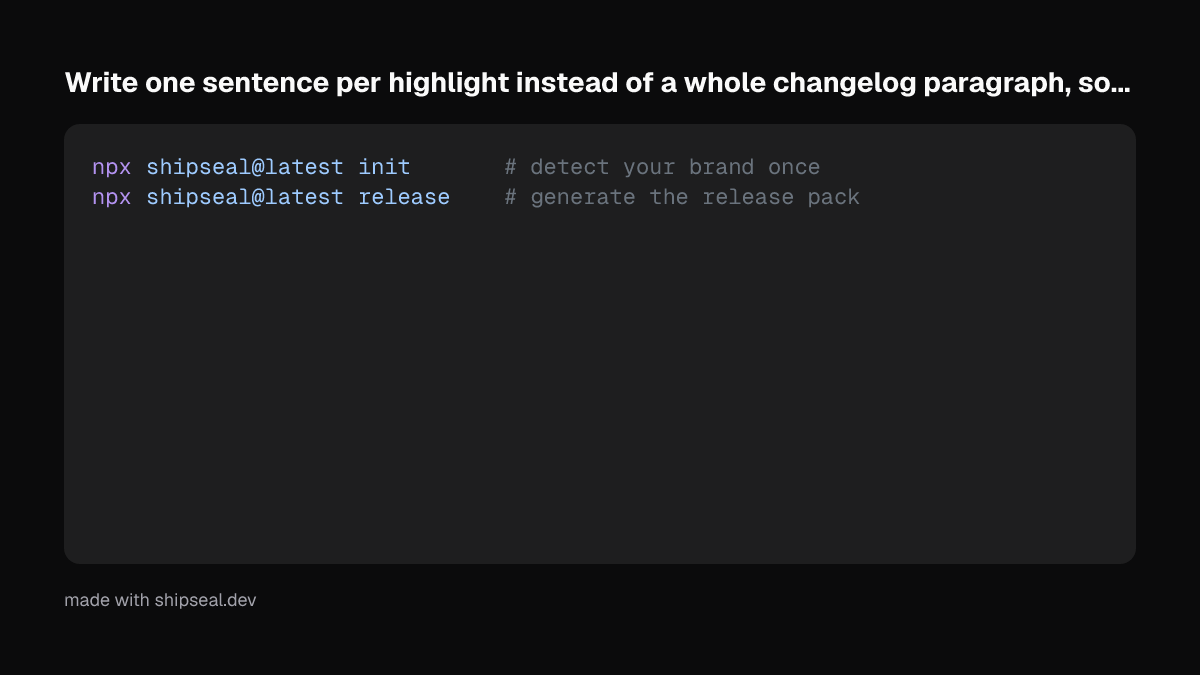
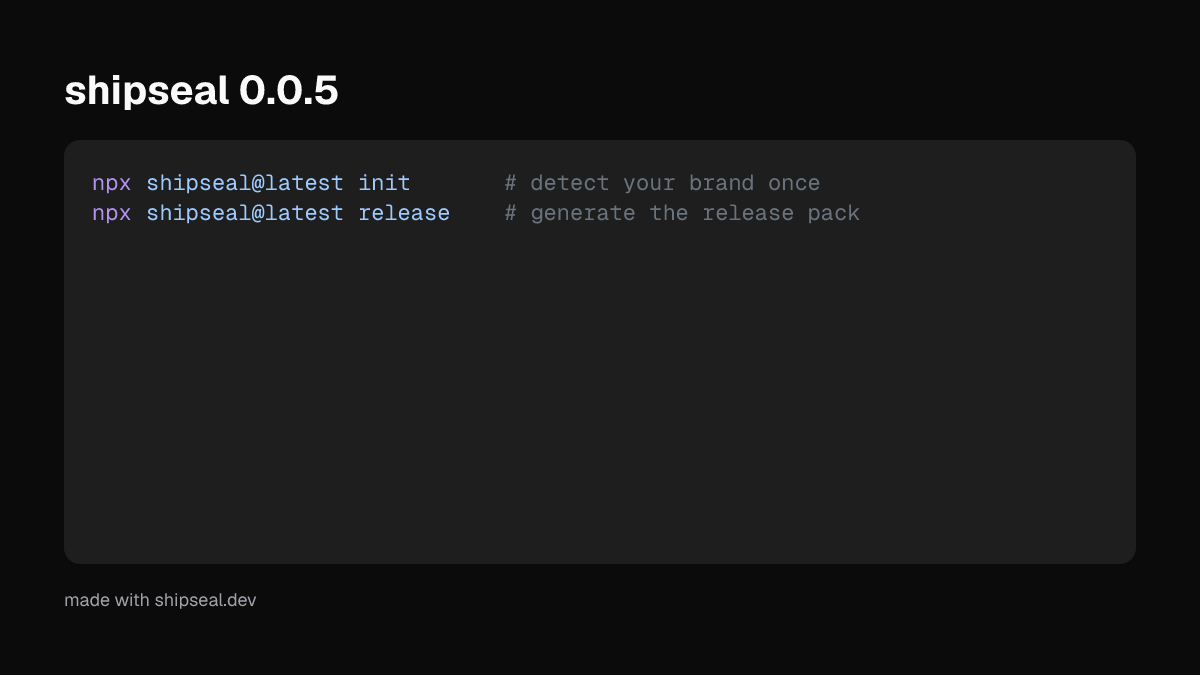
fix: never truncate a headline, never use a private root name
Pick the first changelog entry whose opening sentence fits the card, and
fall back to name and version when nothing is short enough. A release
shipped with a hero headline cut off mid-phrase.

Use the directory name when package.json is private. A workspace root
name reached a real card as shipseal-monorepo 0.0.5.

Fill the highlights card when a release has one or two entries.

Changed region(s): [[0.0308, 0.0933, 0.9558, 0.1556], [0.0617, 0.2178, 0.37, 0.3422], [0.4008, 0.2178, 0.7092, 0.3422]]

diff --git a/packages/shipseal/src/copy/deterministic.ts b/packages/shipseal/src/copy/deterministic.ts
@@ -14,13 +14,15 @@ export function deterministicCopy(facts: Facts, maxHighlights = MAX_HIGHLIGHTS):
   // Breaking changes lead, then features, then fixes. Looking only at features meant a
   // patch release (every Changesets "Patch Changes" entry maps to a fix) fell through to
   // "{name} {version}", or worse, to a raw commit subject when git was the only source.
-  const headlineSource = breaking[0] ?? features[0] ?? fixes[0];
+  // Prefer the first entry whose opening sentence actually fits a headline. Taking the first
+  // sentence is not enough on its own: a single long sentence still overflowed, and the
+  // v0.0.5 card shipped with a headline truncated mid-phrase. A release with nothing short
+  // enough to say is better titled by its name and version than by a cut-off sentence.
+  const headlineSource = [...breaking, ...features, ...fixes]
+    .map((line) => cleanLine(firstSentence(line)))
+    .find((line) => line.length <= HEADLINE_MAX_CHARS);
   const headline =
-    headlineSource !== undefined
-      ? cleanLine(firstSentence(headlineSource))
-      : version === undefined
-        ? name
-        : `${name} ${version}`;
+    headlineSource ?? (version === undefined ? name : `${name} ${version}`);
 
   const tagline = facts.project.tagline?.value;
   const subheadline =
@@ -105,6 +107,13 @@ export function firstSentence(text: string): string {
   const match = /^(.+?[.?!])\s+[A-Z]/.exec(collapsed);
   return match?.[1] ?? collapsed;
 }
+
+/**
+ * Longest headline that fits two lines at the minimum font size on a 1200 wide card.
+ * Measured rather than guessed: §13.1 originally said 48, which rejects most real changelog
+ * sentences, and the fitting pass comfortably handles more.
+ */
+const HEADLINE_MAX_CHARS = 72;
 
 export function cleanLine(text: string): string {
   // Replace an em dash with a colon and swallow the space in front of it, so "shops \u2014 mobile"

diff --git a/packages/shipseal/test/copy.test.ts b/packages/shipseal/test/copy.test.ts
@@ -191,3 +191,44 @@ describe("highlights from changelog entries", () => {
     expect(copy.highlights[1]).toBe("Add bench cards");
   });
 });
+
+describe("headline length budget", () => {
+  // The v0.0.5 hero card shipped with a headline truncated mid-phrase. Taking the first
+  // sentence is not enough when that sentence is itself too long for the card.
+  const at = (v: string) => fact(v, { source: "changelog" as const, ref: "CHANGELOG.md", fetchedAt: NOW });
+  const withFixes = (lines: string[]): Facts => ({
+    ...FIXTURE_FACTS,
+    release: {
+      ...FIXTURE_FACTS.release,
+      version: at("0.0.5"),
+      tag: at("v0.0.5"),
+      date: at("2026-09-11"),
+      features: [],
+      fixes: lines.map(at),
+      breaking: [],
+    },
+  });
+
+  it("skips an entry that is too long and takes the next one that fits", () => {
+    const copy = deterministicCopy(
+      withFixes([
+        "Write one sentence per highlight instead of a whole changelog paragraph, so entries fit the card rather than truncating mid-word",
+        "Fold nested bullets into the entry above",
+      ]),
+    );
+    expect(copy.headline).toBe("Fold nested bullets into the entry above");
+  });
+
+  it("falls back to name and version when nothing is short enough", () => {
+    const copy = deterministicCopy(
+      withFixes(["A sentence that runs on and on and on well past anything that could ever fit onto a release card headline"]),
+    );
+    expect(copy.headline).toContain("0.0.5");
+  });
+
+  it("keeps a headline that fits", () => {
+    expect(deterministicCopy(withFixes(["Fix brand detection on PNG logos"])).headline).toBe(
+      "Fix brand detection on PNG logos",
+    );
+  });
+});

diff --git a/packages/shipseal/test/sources.test.ts b/packages/shipseal/test/sources.test.ts
@@ -464,3 +464,21 @@ describe("changelog nested bullets", () => {
     expect(fixes[0]).toContain("Read theme colours properly");
   });
 });
+
+describe("project name on a private root", () => {
+  // A workspace root's name reached a real hero card as "shipseal-monorepo 0.0.5".
+  it("uses the directory rather than a private package name", async () => {
+    const dir = await mkdtemp(join(tmpdir(), "shipseal-privname-"));
+    await writeFile(join(dir, "package.json"), JSON.stringify({ name: "demo-monorepo", private: true }), "utf8");
+    const part = await collectPackageJson(dir);
+    expect(part.project?.name?.value).not.toBe("demo-monorepo");
+    expect(part.project?.name?.provenance.ref).toContain("directory name");
+  });
+
+  it("keeps the name of a publishable package", async () => {
+    const dir = await mkdtemp(join(tmpdir(), "shipseal-pubname-"));
+    await writeFile(join(dir, "package.json"), JSON.stringify({ name: "@scope/demo" }), "utf8");
+    const part = await collectPackageJson(dir);
+    expect(part.project?.name?.value).toBe("demo");
+  });
+});

diff --git a/packages/shipseal/test/generate.test.ts b/packages/shipseal/test/generate.test.ts
@@ -55,7 +55,14 @@ describe("generate", () => {
 
   it("records a truncation warning for a deliberately long headline", async () => {
     const renderer = await createTakumiRenderer();
-    const copy = deterministicCopy(LONG_HEADLINE_FACTS);
+    // The copy layer now refuses an over-long headline, so force one into the slot directly.
+    // R6 still has to hold for text that reaches a template by any route, including a
+    // user-supplied headline or a future template with a tighter slot.
+    const copy = {
+      ...deterministicCopy(LONG_HEADLINE_FACTS),
+      headline:
+        "A headline so long that no font size in the range can fit it onto two lines of this card without cutting it short",
+    };
     const result = await generate({
       event: { kind: "release", tag: "v2.0.0" },
       facts: LONG_HEADLINE_FACTS,

diff --git a/packages/shipseal/src/sources/package-json.ts b/packages/shipseal/src/sources/package-json.ts
@@ -39,10 +39,14 @@ export async function collectPackageJson(
     return {};
   }
   const fetchedAt = new Date().toISOString();
+  // A private package.json is a workspace root and its name is plumbing, not a brand. Using
+  // it put "shipseal-monorepo 0.0.5" on a real hero card. Fall back to the directory, and let
+  // a README heading or the git remote win if either has something better.
+  const rawName = pkg.data.private === true ? undefined : pkg.data.name;
   const project: PartialProject = {
-    name: fact(stripScope(pkg.data.name ?? basenameFromPath(cwd)), {
+    name: fact(stripScope(rawName ?? basenameFromPath(cwd)), {
       source: "package-json",
-      ref: `${packagePath}#name`,
+      ref: rawName === undefined ? `${packagePath} directory name` : `${packagePath}#name`,
       fetchedAt,
     }),
   };

diff --git a/.changeset/lucky-pears-run.md b/.changeset/lucky-pears-run.md
@@ -1,0 +1,8 @@
+---
+"shipseal": patch
+---
+
+Never put a truncated headline on a card. Taking the first sentence of a changelog entry was
+not enough on its own: a single long sentence still overflowed, and one release shipped a hero
+card cut off mid-phrase. Shipseal now picks the first entry whose opening sentence fits, and
+titles the card with the project name and version when nothing is short enough.

diff --git a/docs/PROJECT_PLAN.md b/docs/PROJECT_PLAN.md
@@ -639,7 +639,7 @@ Templates declare text **slots**. The copy layer fills them.
 
 | Slot | Example | Max length (chars) |
 |---|---|---|
-| `headline` | "QR and barcode support" | 48 |
+| `headline` | "QR and barcode support" | 72 |
 | `subheadline` | "Render scannable codes in any PDF component" | 90 |
 | `highlights[]` | "New `<QRCode>` component" | 56 each, max 4 |
 | `cta` | "npm i pdfx" | 32 |

diff --git a/.changeset/tidy-cups-judge.md b/.changeset/tidy-cups-judge.md
@@ -1,0 +1,7 @@
+---
+"shipseal": patch
+---
+
+Do not use a private workspace root's name as the project name. It reached a real hero card as
+"shipseal-monorepo 0.0.5". The directory name is used instead, and a README heading or the git
+remote still wins when either has something better.
